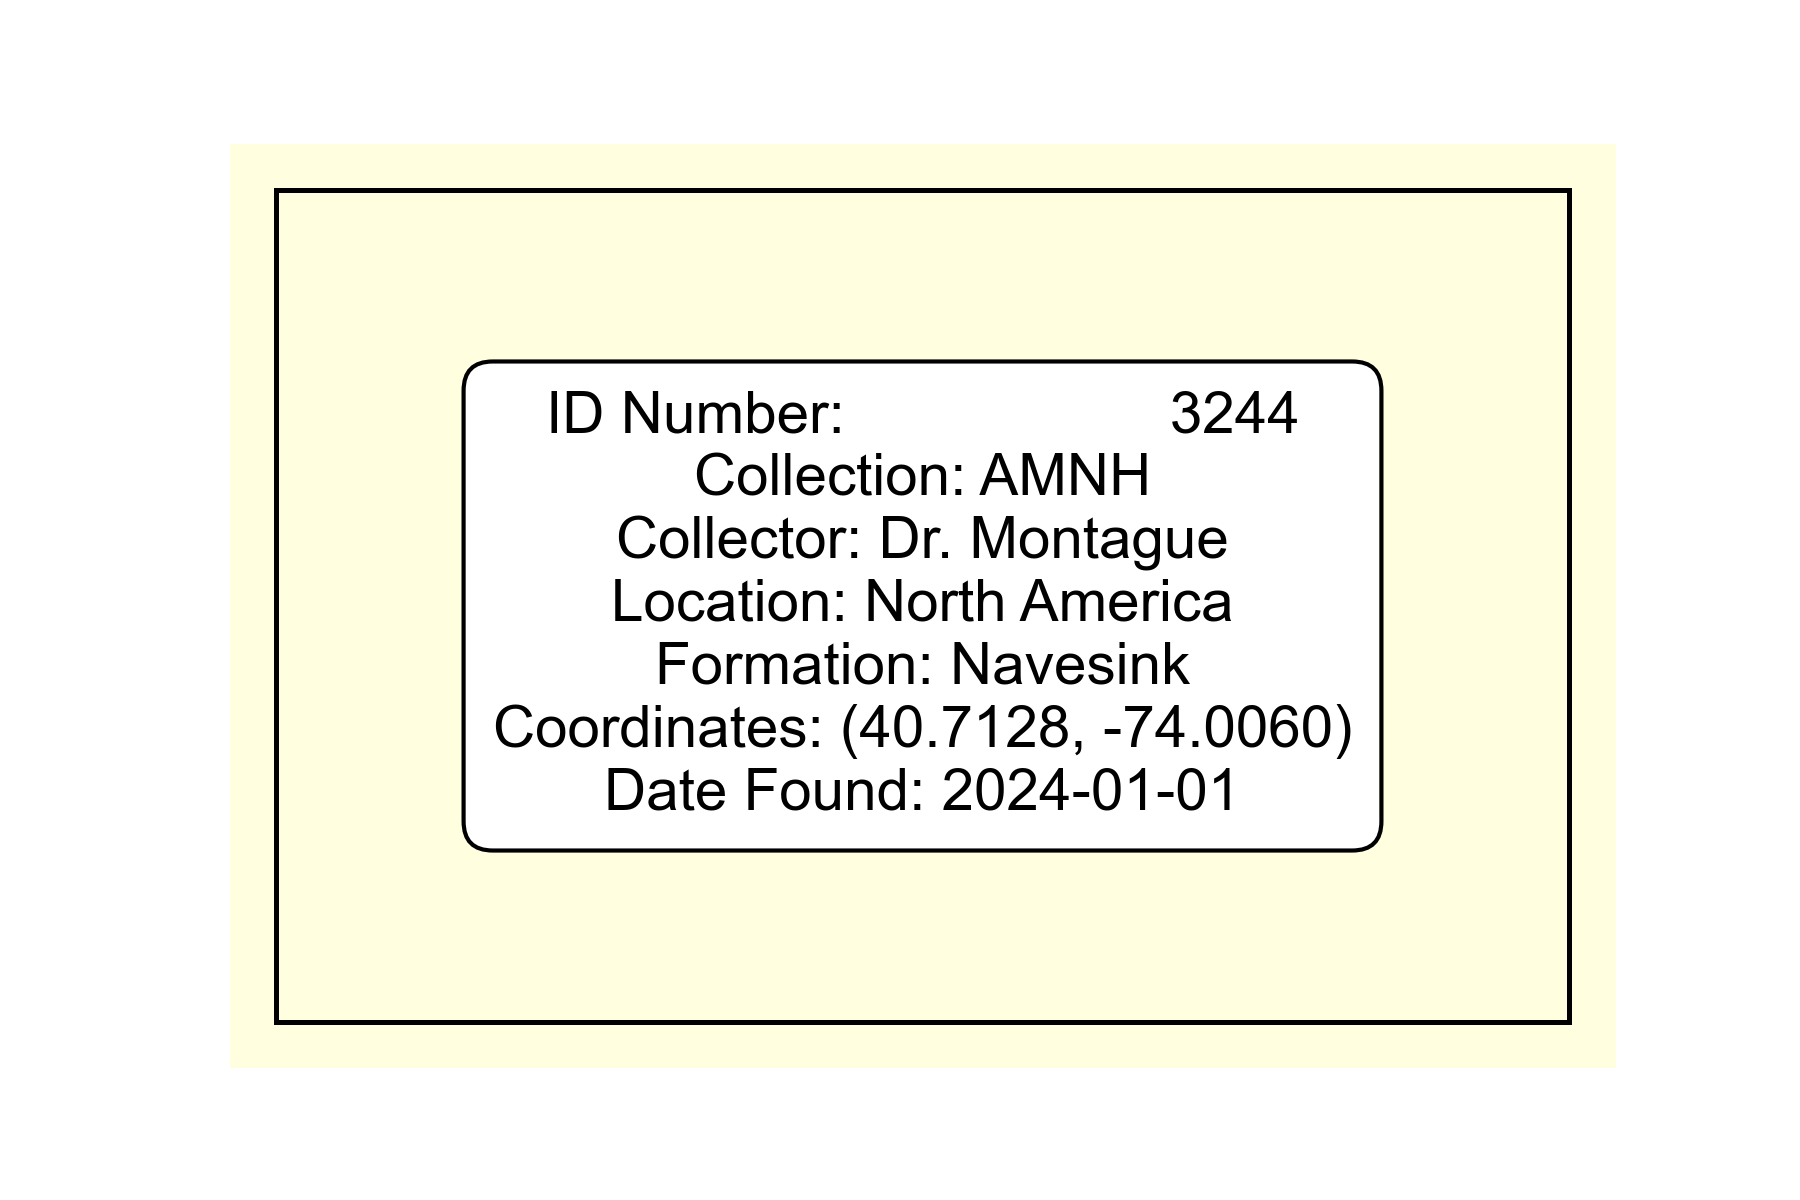
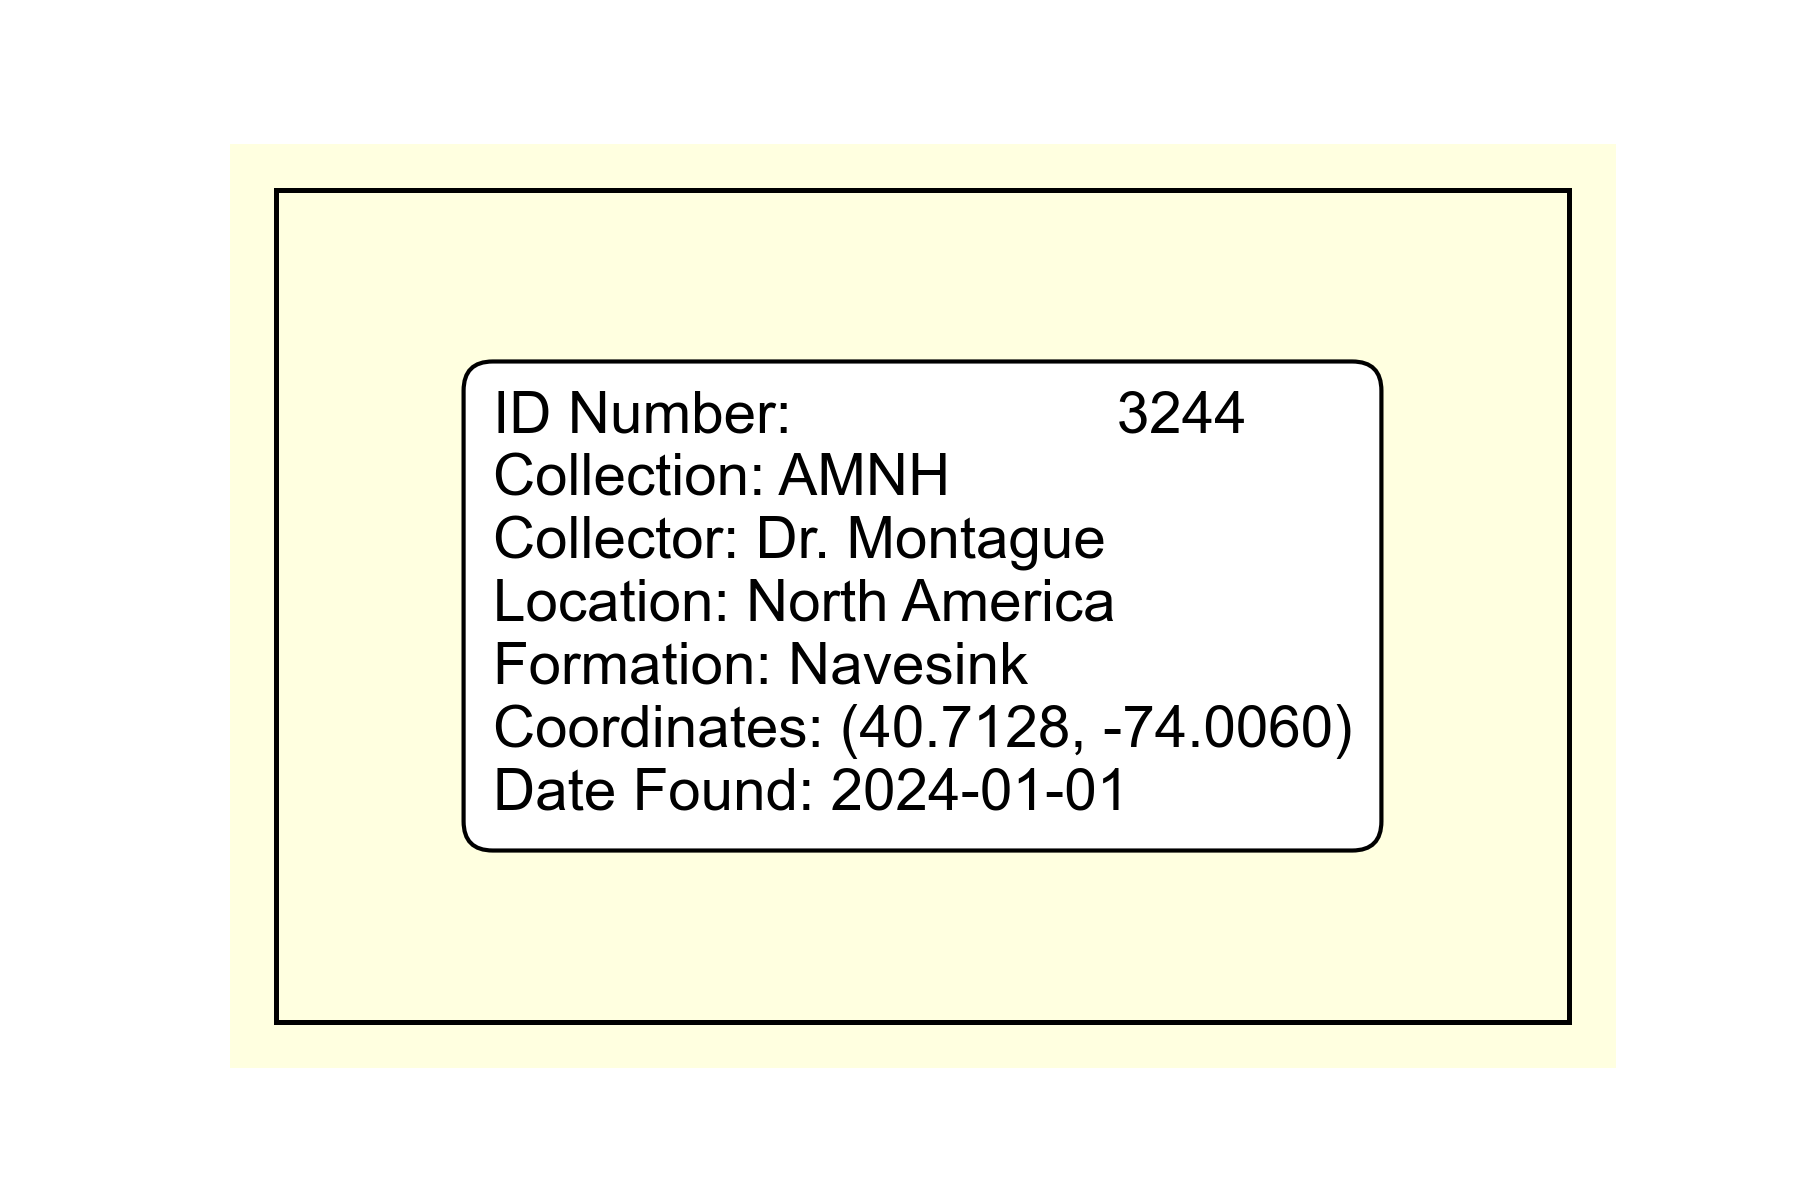
attempt with adding images to figures

Changed region(s): [[0.28, 0.3083, 0.7156, 0.5858], [0.28, 0.6167, 0.6844, 0.6783]]

diff --git a/notebooks/mpl_text_plots.py b/notebooks/mpl_text_plots.py
@@ -1,7 +1,10 @@
 # %%
 
+
 import matplotlib.font_manager as fm
+import matplotlib.image as mpimg
 import matplotlib.pyplot as plt
+from matplotlib.offsetbox import AnnotationBbox, OffsetImage
 from matplotlib.patches import Rectangle
 
 # %%
@@ -131,6 +134,7 @@ ax.text(
     va="center",
     fontproperties=font,
     bbox=dict(boxstyle="round,pad=0.5", facecolor="white", edgecolor="black"),
+    ma="left",
 )
 
 
@@ -140,4 +144,80 @@ print(f"Saved as SVG: {output_file_svg}")
 
 plt.savefig("centered_text_box.png", dpi=300)
 plt.show()
+# %%
+
+
+# label dimensions in inches
+label_dimensions = (6, 4)  # width, height
+
+# create the label body
+fig, ax = plt.subplots(figsize=label_dimensions)
+ax.set_xlim(0, label_dimensions[0])
+ax.set_ylim(0, label_dimensions[1])
+ax.set_aspect("equal")
+ax.axis("off")
+
+# add background color
+ax.add_patch(Rectangle((0, 0), *label_dimensions, color="lightyellow"))
+
+# add border
+border_size = 0.05
+border_padding = 0.1
+left = border_padding
+bottom = border_padding
+right = label_dimensions[0] - border_padding
+top = label_dimensions[1] - border_padding
+
+ax.add_patch(
+    Rectangle(
+        (left, bottom),
+        right - left,
+        top - bottom,
+        edgecolor="black",
+        facecolor="none",
+        linewidth=border_size * 72,
+    )
+)
+
+# define the text content
+text_content = """\
+ID Number:      3244
+Collection:     AMNH
+Collector:      Dr. Montague
+Location:       North America
+Formation:      Navesink
+Coordinates:    (40.7128, -74.0060)
+Date Found:     2024-01-01"""
+
+# use a monospaced font
+font_path = fm.findfont(fm.FontProperties(family="Courier New"))
+font = fm.FontProperties(fname=font_path, size=14)
+
+# add text box (centered)
+text_x = label_dimensions[0] / 2
+text_y = label_dimensions[1] / 2
+ax.text(
+    text_x,
+    text_y,
+    text_content,
+    ha="center",
+    va="center",
+    fontproperties=font,
+    bbox=dict(boxstyle="round,pad=0.5", facecolor="white", edgecolor="black"),
+)
+
+# load and add the image (to the left of the text box)
+image_path = "../assets/readme_photos/IMG_3764.jpg"
+img = mpimg.imread(image_path)
+imagebox = OffsetImage(img, zoom=0.02)  # Adjust zoom to control image size
+
+# Position the image
+image_x = label_dimensions[0] / 2 - 2.0
+image_y = text_y
+image_annot = AnnotationBbox(imagebox, (image_x, image_y), frameon=False)
+ax.add_artist(image_annot)
+
+plt.savefig("figure_with_image_and_text.png", dpi=300)
+plt.show()
+
 # %%
